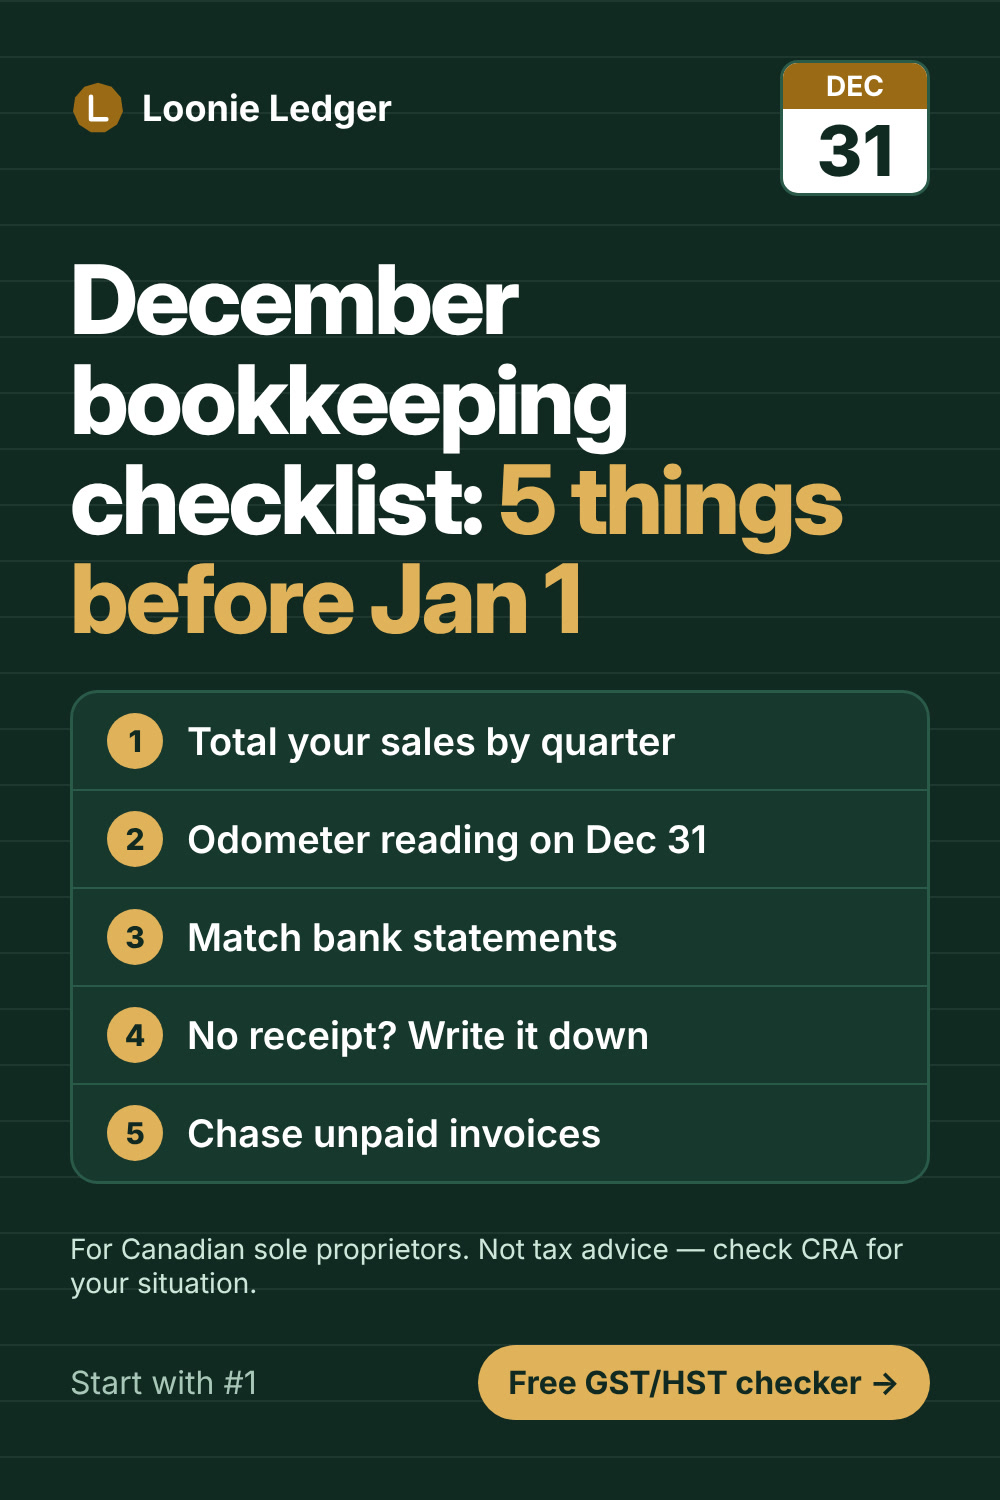
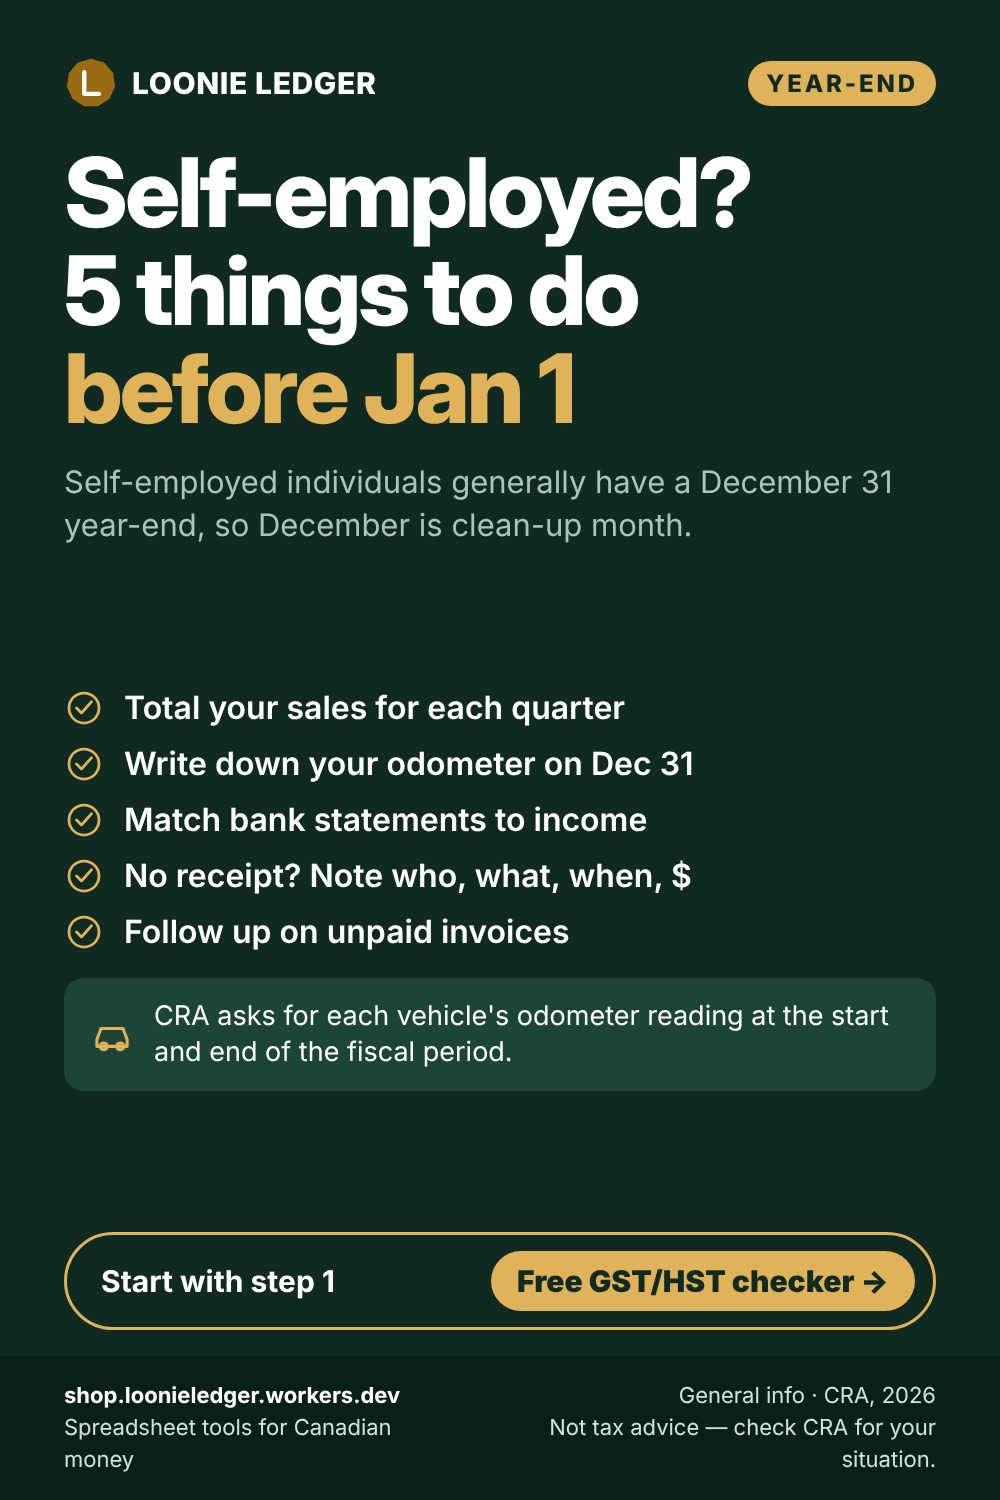
Infographic Pinterest pins: make_pin.cjs + specs; re-make the two existing pins
Claude-Session: https://claude.ai/code/session_01Xjdh6pb652wgKsMiiSNh8u

diff --git a/marketing/README.md b/marketing/README.md
@@ -63,6 +63,10 @@ Every piece of content is randomly either the **white** style (light ledger back
 |---|---|---|---|
 | Evening video (hook + all scenes; the outro is always green) | `python3 marketing/video/pin_style.py <date> video` | `marketing/video/video-dark.css` | `STYLE=dark node marketing/video/batch.cjs <out> preview` — `hookScene()` follows `STYLE` too |
 | Midday carousel (Instagram + the Facebook image made from slide 1) | `python3 marketing/video/pin_style.py <date> carousel` | `marketing/carousel/carousel-dark.css` | `STYLE=dark node marketing/carousel/2026-11-05.cjs <out>` |
-| Pinterest pin | `python3 marketing/video/pin_style.py <date>` | `marketing/video/pin-dark.css` (use `class="hi"` / `class="mut"`; light pins need `.hi{color:#9a6b14}.mut{color:#46605a}`) | `PIN_STYLE=dark node marketing/video/daily/2026-11-05.cjs --pin <out.png>` |
+| Pinterest pin | `python3 marketing/video/pin_style.py <date>` | built in — `STYLE=light|dark` | `STYLE=dark node marketing/pins/make_pin.cjs marketing/pins/specs/<slug>.json site/src/media/<date>-pin.jpg` |
 
 The script prints `light` or `dark`; the pick is random but fixed per date, so a re-run makes the same choice. This replaces any "light background" wording in the scheduled tasks. On green, check every frame/slide for dark text that disappeared (the CSS files fix the common cases). The hook rules above apply in both styles.
+
+## Pinterest pins: infographic style (owner request, 2026-11-06)
+
+Pins are mini-infographics (the owner liked tax-tip boards that teach one thing at a glance). Build every pin with `marketing/pins/make_pin.cjs` from a small JSON spec saved as `marketing/pins/specs/<slug>.json` — see `gst-register.json` and `december-checklist.json`. Each pin has: brand + topic tag at the top, a two-tone headline (one line in the highlight colour), a one-sentence lead, ONE visual block that teaches the point — a `flow` (icons + arrows → result, best for "how it adds up"), an `example` (worked numbers table), or `checks` (checklist) — plus at most one `note`, then the CTA pill and the footer (site + "General info · source" + "Not tax advice"). Use real, CRA-verified numbers only; keep it skimmable (no paragraph over 2 lines). The script warns if content overflows — shorten until it says `ok`. Look at the pin before using it. Our own layout and icons only — never copy another brand's design, logo or wording.
